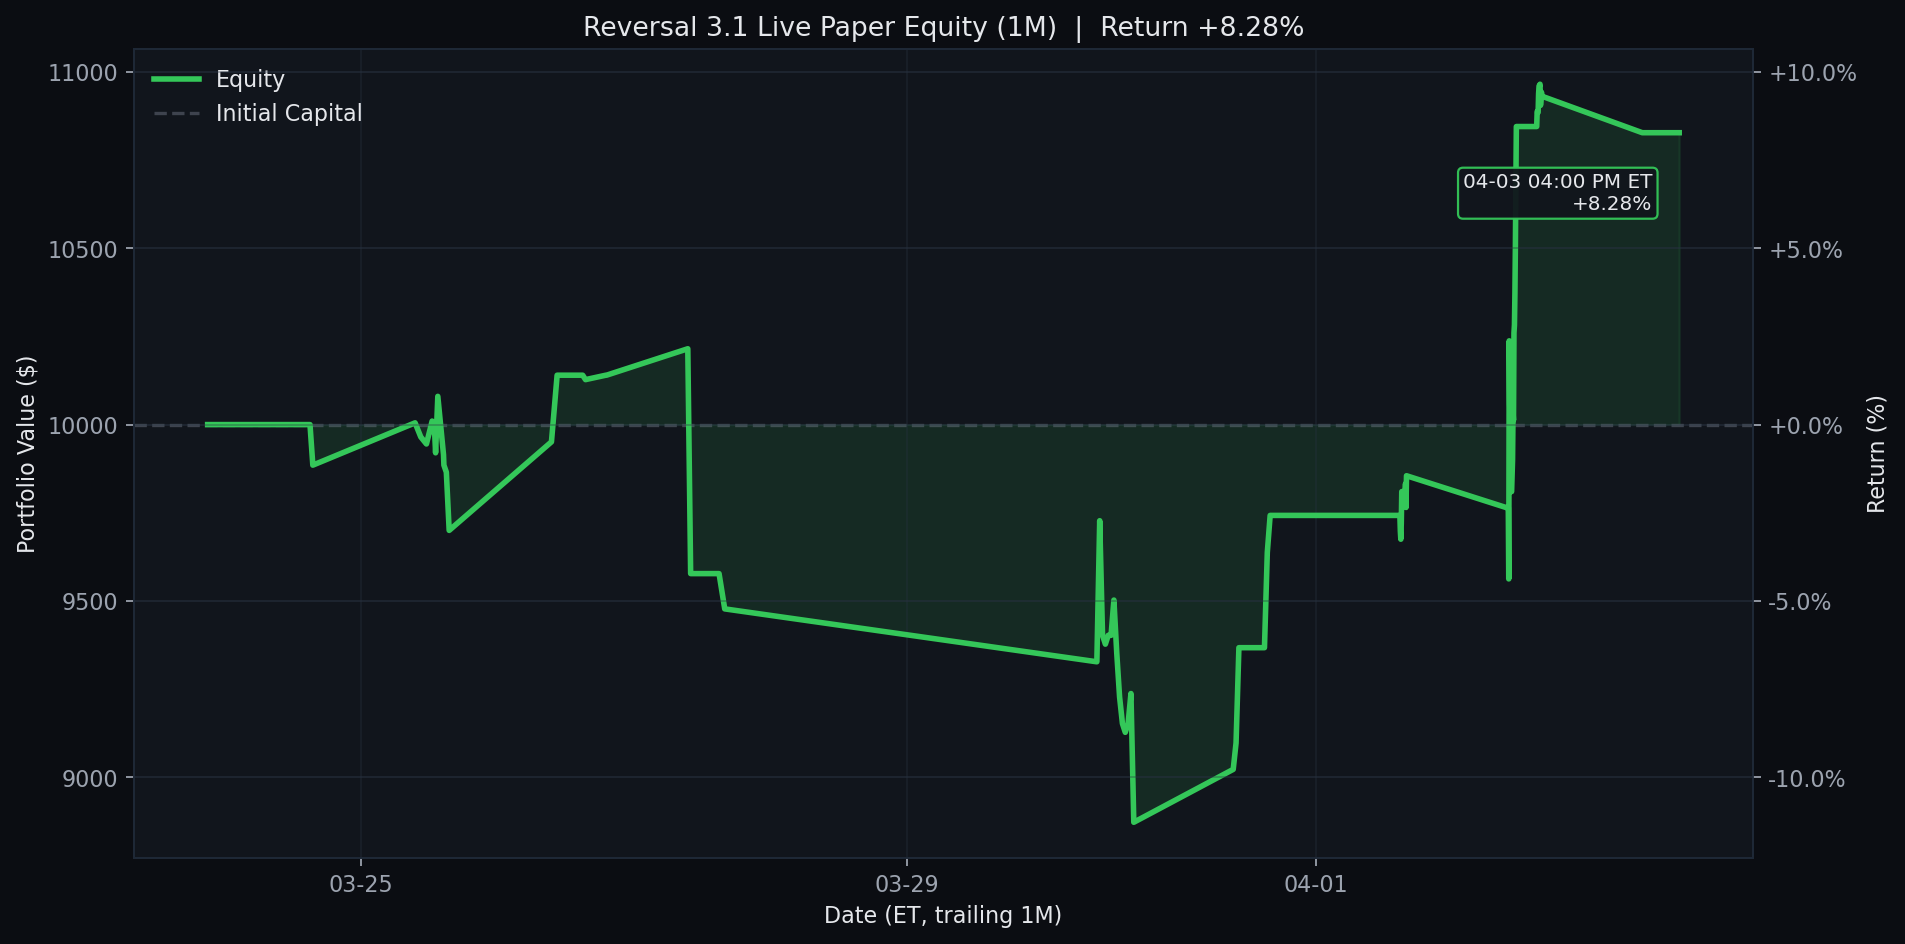
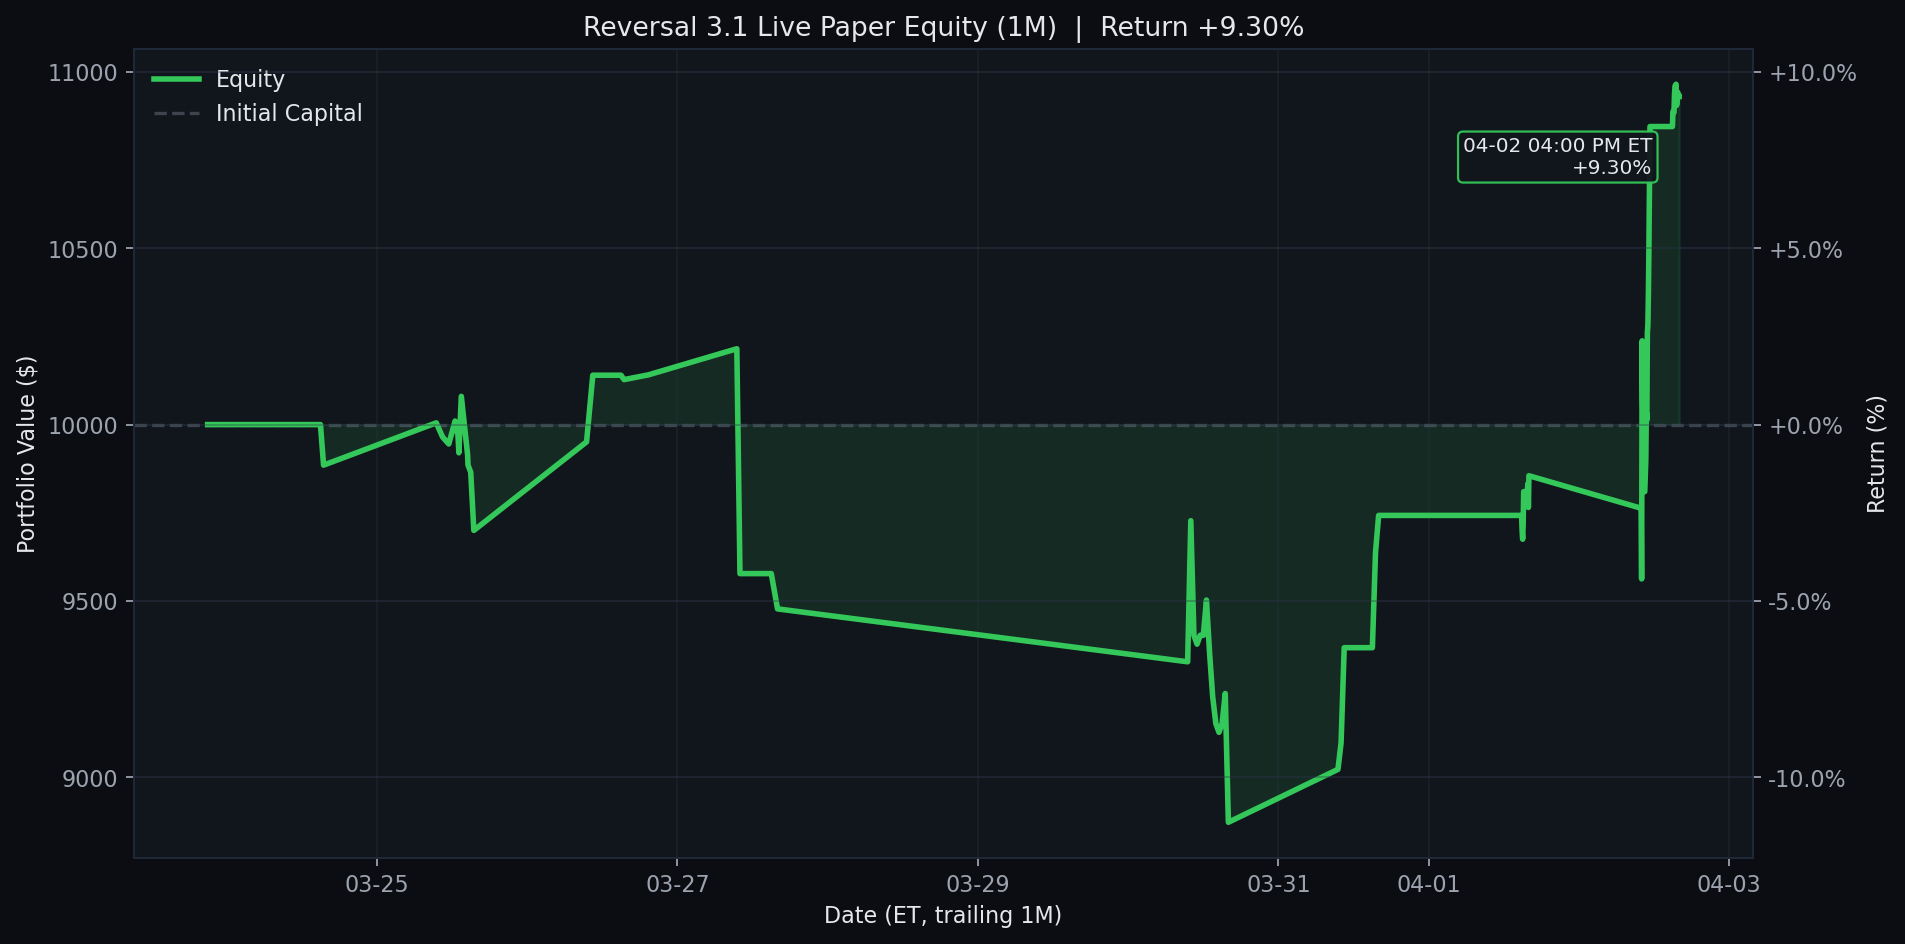
Fix market holiday handling for live paper runner

diff --git a/reversal_3_1_live.py b/reversal_3_1_live.py
@@ -6,6 +6,7 @@ import math
 import os
 import subprocess
 import sys
+from datetime import date, timedelta
 from dataclasses import asdict, dataclass
 from pathlib import Path
 from typing import Any
@@ -82,6 +83,114 @@ SLOT_TO_ET = {
     "manage_1530": (15, 30),
     "manage_1600": (16, 0),
 }
+
+
+def _observed_fixed_holiday(year: int, month: int, day: int) -> date:
+    holiday = date(year, month, day)
+    if holiday.weekday() == 5:
+        return holiday - timedelta(days=1)
+    if holiday.weekday() == 6:
+        return holiday + timedelta(days=1)
+    return holiday
+
+
+def _nth_weekday_of_month(year: int, month: int, weekday: int, n: int) -> date:
+    current = date(year, month, 1)
+    delta_days = (weekday - current.weekday()) % 7
+    return current + timedelta(days=delta_days + (n - 1) * 7)
+
+
+def _last_weekday_of_month(year: int, month: int, weekday: int) -> date:
+    if month == 12:
+        current = date(year + 1, 1, 1) - timedelta(days=1)
+    else:
+        current = date(year, month + 1, 1) - timedelta(days=1)
+    while current.weekday() != weekday:
+        current -= timedelta(days=1)
+    return current
+
+
+def _western_easter(year: int) -> date:
+    a = year % 19
+    b = year // 100
+    c = year % 100
+    d = b // 4
+    e = b % 4
+    f = (b + 8) // 25
+    g = (b - f + 1) // 3
+    h = (19 * a + b - d - g + 15) % 30
+    i = c // 4
+    k = c % 4
+    l = (32 + 2 * e + 2 * i - h - k) % 7
+    m = (a + 11 * h + 22 * l) // 451
+    month = (h + l - 7 * m + 114) // 31
+    day = ((h + l - 7 * m + 114) % 31) + 1
+    return date(year, month, day)
+
+
+def nyse_full_day_holidays(year: int) -> dict[date, str]:
+    holidays: dict[date, str] = {
+        _observed_fixed_holiday(year, 1, 1): "New Year's Day",
+        _nth_weekday_of_month(year, 1, 0, 3): "Martin Luther King Jr. Day",
+        _nth_weekday_of_month(year, 2, 0, 3): "Presidents Day",
+        _western_easter(year) - timedelta(days=2): "Good Friday",
+        _last_weekday_of_month(year, 5, 0): "Memorial Day",
+        _observed_fixed_holiday(year, 7, 4): "Independence Day",
+        _nth_weekday_of_month(year, 9, 0, 1): "Labor Day",
+        _nth_weekday_of_month(year, 11, 3, 4): "Thanksgiving Day",
+        _observed_fixed_holiday(year, 12, 25): "Christmas Day",
+    }
+    if year >= 2022:
+        holidays[_observed_fixed_holiday(year, 6, 19)] = "Juneteenth National Independence Day"
+    next_new_year_obs = _observed_fixed_holiday(year + 1, 1, 1)
+    if next_new_year_obs.year == year:
+        holidays[next_new_year_obs] = "New Year's Day (observed)"
+    return holidays
+
+
+def _to_calendar_date(value: pd.Timestamp | str | date) -> date:
+    if isinstance(value, date) and not isinstance(value, pd.Timestamp):
+        return value
+    ts = pd.Timestamp(value)
+    if ts.tzinfo is not None:
+        ts = ts.tz_convert(ET)
+    return ts.date()
+
+
+def market_closure_reason(value: pd.Timestamp | str | date) -> dict[str, Any] | None:
+    current_date = _to_calendar_date(value)
+    if current_date.weekday() >= 5:
+        return {"reason": "weekend", "holiday_name": None}
+    holiday_name = nyse_full_day_holidays(current_date.year).get(current_date)
+    if holiday_name:
+        return {"reason": "nyse_holiday", "holiday_name": holiday_name}
+    return None
+
+
+def is_nyse_session_day(value: pd.Timestamp | str | date) -> bool:
+    return market_closure_reason(value) is None
+
+
+def previous_nyse_session_day(value: pd.Timestamp | str | date) -> pd.Timestamp:
+    current_date = _to_calendar_date(value)
+    candidate = current_date - timedelta(days=1)
+    while not is_nyse_session_day(candidate):
+        candidate -= timedelta(days=1)
+    return pd.Timestamp(candidate)
+
+
+def count_nyse_session_days(start_exclusive: pd.Timestamp | str | date, end_inclusive: pd.Timestamp | str | date) -> int:
+    start_date = _to_calendar_date(start_exclusive)
+    end_date = _to_calendar_date(end_inclusive)
+    if end_date <= start_date:
+        return 0
+    sessions = 0
+    current = start_date + timedelta(days=1)
+    while current <= end_date:
+        if is_nyse_session_day(current):
+            sessions += 1
+        current += timedelta(days=1)
+    return sessions
 
 
 @dataclass
@@ -199,8 +308,7 @@ def build_universe() -> list[str]:
 
 
 def latest_required_history_date(now_et: pd.Timestamp) -> pd.Timestamp:
-    current = now_et.normalize().tz_localize(None)
-    return (current - pd.offsets.BDay(1)).normalize()
+    return previous_nyse_session_day(now_et)
 
 
 def csv_history_is_stale(tickers: list[str], now_et: pd.Timestamp) -> bool:
@@ -384,11 +492,11 @@ def get_live_snapshot(ticker: str, allow_extended_hours: bool = True) -> dict[st
 
 
 def trading_days_to_expiry(expiry_str: str) -> int:
-    today = pd.Timestamp.today().normalize()
+    today = pd.Timestamp.today(tz=ET).normalize()
     expiry_ts = pd.Timestamp(expiry_str).normalize()
-    if expiry_ts <= today:
+    if expiry_ts.date() <= today.date():
         return 0
-    return len(pd.bdate_range(today + pd.Timedelta(days=1), expiry_ts))
+    return count_nyse_session_days(today, expiry_ts)
 
 
 def choose_option_mark(calls: pd.DataFrame) -> pd.Series:
@@ -621,11 +729,7 @@ def screen_live_candidates(tickers: list[str]) -> tuple[pd.DataFrame, dict[str, 
 
 
 def business_days_since(entry_trade_date: str, current_trade_date: str) -> int:
-    entry = pd.Timestamp(entry_trade_date).normalize()
-    current = pd.Timestamp(current_trade_date).normalize()
-    if current <= entry:
-        return 0
-    return len(pd.bdate_range(entry + pd.Timedelta(days=1), current))
+    return count_nyse_session_days(entry_trade_date, current_trade_date)
 
 
 def append_event(events_df: pd.DataFrame, now_et: pd.Timestamp, trade_date: str, slot: str, event_type: str, detail: dict[str, Any]) -> pd.DataFrame:
@@ -1244,6 +1348,7 @@ def run_cycle(args: argparse.Namespace) -> dict[str, Any]:
     ensure_dirs()
     now_et = now_et_from_arg(args.now)
     slot_key = slot_key_for_timestamp(now_et, args.force_slot)
+    closure_detail = market_closure_reason(now_et)
     state = load_state(args.start_date)
     trades_df = load_csv_log(TRADES_PATH)
     events_df = load_csv_log(EVENTS_PATH)
@@ -1253,10 +1358,10 @@ def run_cycle(args: argparse.Namespace) -> dict[str, Any]:
     trade_date = now_et.date().isoformat()
     pre_start = pd.Timestamp(trade_date) < pd.Timestamp(state["start_date"])
 
-    if not pre_start and REFRESH_DATA_IF_STALE and not args.skip_data_refresh:
+    if not pre_start and closure_detail is None and REFRESH_DATA_IF_STALE and not args.skip_data_refresh:
         events_df = maybe_refresh_daily_data(universe, now_et, events_df)
 
-    if pre_start:
+    if pre_start or closure_detail is not None:
         summary_df = pd.DataFrame()
     else:
         summary_df, _ = screen_live_candidates(universe)
@@ -1272,7 +1377,36 @@ def run_cycle(args: argparse.Namespace) -> dict[str, Any]:
         )
     else:
         processed_for_day = state["processed_slots"].setdefault(trade_date, [])
-        if slot_key and slot_key not in processed_for_day:
+        if closure_detail is not None:
+            if slot_key and slot_key not in processed_for_day:
+                events_df = append_event(
+                    events_df,
+                    now_et=now_et,
+                    trade_date=trade_date,
+                    slot=slot_key,
+                    event_type="market_closed",
+                    detail=closure_detail,
+                )
+                processed_for_day.append(slot_key)
+            elif slot_key:
+                events_df = append_event(
+                    events_df,
+                    now_et=now_et,
+                    trade_date=trade_date,
+                    slot=slot_key,
+                    event_type="slot_skipped",
+                    detail={"reason": "already_processed"},
+                )
+            else:
+                events_df = append_event(
+                    events_df,
+                    now_et=now_et,
+                    trade_date=trade_date,
+                    slot="manual",
+                    event_type="market_closed",
+                    detail=closure_detail,
+                )
+        elif slot_key and slot_key not in processed_for_day:
             if slot_key.startswith("manage_"):
                 state, trades_df, events_df = maybe_exit_positions(state, now_et, slot_key, trades_df, events_df)
             if slot_key == "entry_1500":

diff --git a/results/reversal_3_1_live/README.md b/results/reversal_3_1_live/README.md
@@ -1,6 +1,6 @@
 # Reversal 3.1 Live Paper Test
 
-Last updated (ET): `2026-04-03 16:00:01 EDT`
+Last updated (ET): `2026-04-03 16:00:00 EDT`
 Last processed slot: `manage_1600`
 
 ## Active Configuration
@@ -19,18 +19,17 @@ Last processed slot: `manage_1600`
 
 ## Portfolio Snapshot
 
-- Cash: `$2,892.50`
+- Cash: `$8,102.50`
 - Equity: `$10,827.50`
 - Realized PnL: `$845.00`
 - Unrealized PnL: `$-17.50`
-- Open positions: `2`
+- Open positions: `1`
 
 ## Open Positions
 
 ```text
-ticker     contract_symbol entry_trade_date  business_days_held  entry_option_price  current_option_price  entry_spot  current_spot  unrealized_pnl  unrealized_return_pct  success_rate  matched_signals  current_drop_pct  entry_iv_pct  current_iv_pct  rolling_sigma_20d_pct
-  REGN REGN260515C00760000       2026-04-03                   0               52.10                 52.10      761.39        761.39             0.0                   0.00         93.33               15              2.04         51.67           51.67                  27.37
-   WDC  WDC260501C00295000       2026-04-02                   1               27.42                 27.25      294.77        294.20           -17.5                  -0.64         97.22               36              0.99         81.84           82.37                  91.06
+ticker    contract_symbol entry_trade_date  business_days_held  entry_option_price  current_option_price  entry_spot  current_spot  unrealized_pnl  unrealized_return_pct  success_rate  matched_signals  current_drop_pct  entry_iv_pct  current_iv_pct  rolling_sigma_20d_pct
+   WDC WDC260501C00295000       2026-04-02                   0               27.42                 27.25      294.77         294.2           -17.5                  -0.64         97.22               36              0.99         81.84           82.37                  91.06
 ```
 
 ## Today's Closed Trades (2026-04-03)
@@ -39,36 +38,22 @@ _None_
 
 ## Current Screener Snapshot
 
-```text
-ticker  success_rate_%  matched_signals  current_drop_%  target_rebound_$  target_price  rolling_sigma_20d_%  call_candidate
-   WDC           97.22               36            1.19              2.47        296.67                88.18            True
-  REGN           93.33               15            2.04             11.10        772.49                27.37            True
-  ASML           92.86               14            2.81             26.78       1348.28                51.28            True
-  CDNS           90.91               44            0.64              1.25        279.66                25.28            True
-  ORLY           88.24               34            0.74              0.48         91.90                22.90            True
-   CSX           88.00               25            0.63              0.18         41.36                27.22            True
-  KLAC           86.11               36            0.87              9.27       1515.87                55.10            True
-  FAST           85.71               21            1.44              0.47         46.43                21.85            True
-   KDP           85.71               14            0.97              0.17         25.62                19.41            True
- GOOGL           84.62               39            0.51              1.07        296.93                34.65            True
-  AMAT           84.38               32            1.38              3.41        352.34                57.49            True
-    MU           83.78               37            0.86              2.22        366.90                81.26            True
-```
+_None_
 
 ## Recent Events
 
 ```text
-                    timestamp_et        slot   event_type                          detail
-2026-04-03T16:00:01.913141-04:00 manage_1600 slot_skipped {"reason": "already_processed"}
-2026-04-03T15:55:05.942538-04:00 manage_1600 slot_skipped {"reason": "already_processed"}
-2026-04-03T15:40:03.898307-04:00 manage_1530 slot_skipped {"reason": "already_processed"}
-2026-04-03T15:35:05.900404-04:00 manage_1530 slot_skipped {"reason": "already_processed"}
-2026-04-03T15:30:05.889192-04:00 manage_1530 slot_skipped {"reason": "already_processed"}
-2026-04-03T15:25:05.896513-04:00 manage_1530 slot_skipped {"reason": "already_processed"}
-2026-04-03T15:10:05.893314-04:00  entry_1500 slot_skipped {"reason": "already_processed"}
-2026-04-03T15:05:00.923964-04:00  entry_1500 slot_skipped {"reason": "already_processed"}
-2026-04-03T15:00:05.960286-04:00  entry_1500 slot_skipped {"reason": "already_processed"}
-2026-04-03T14:55:05.881986-04:00  entry_1500 slot_skipped {"reason": "already_processed"}
+                    timestamp_et        slot    event_type                                                    detail
+       2026-04-03T16:00:00-04:00 manage_1600 market_closed {"holiday_name": "Good Friday", "reason": "nyse_holiday"}
+2026-04-02T16:00:05.925792-04:00 manage_1600  slot_skipped                           {"reason": "already_processed"}
+2026-04-02T15:55:05.893858-04:00 manage_1600  slot_skipped                           {"reason": "already_processed"}
+2026-04-02T15:40:05.898407-04:00 manage_1530  slot_skipped                           {"reason": "already_processed"}
+2026-04-02T15:35:05.886679-04:00 manage_1530  slot_skipped                           {"reason": "already_processed"}
+2026-04-02T15:30:05.889337-04:00 manage_1530  slot_skipped                           {"reason": "already_processed"}
+2026-04-02T15:25:05.929228-04:00 manage_1530  slot_skipped                           {"reason": "already_processed"}
+2026-04-02T15:10:05.887758-04:00  entry_1500  slot_skipped                           {"reason": "already_processed"}
+2026-04-02T15:05:00.892731-04:00  entry_1500  slot_skipped                           {"reason": "already_processed"}
+2026-04-02T15:00:05.892985-04:00  entry_1500  slot_skipped                           {"reason": "already_processed"}
 ```
 
 ## Equity Curves

diff --git a/README.md b/README.md
@@ -3,8 +3,8 @@
 <!-- reversal-3.1-live:start -->
 ## Reversal 3.1 Live Paper Test
 
-- Last updated (ET): `2026-04-03 16:00:01 EDT`
-- Equity: `$10,827.50` | Realized: `$845.00` | Unrealized: `$-17.50` | Open positions: `2`
+- Last updated (ET): `2026-04-03 16:00:00 EDT`
+- Equity: `$10,827.50` | Realized: `$845.00` | Unrealized: `$-17.50` | Open positions: `1`
 - Today closed trades: `0`
 - Current slot: `manage_1600`
 - Universe: `qqq_plus_leverage_etfs`
@@ -13,9 +13,8 @@
 ### Current Open Positions
 
 ```text
-ticker     contract_symbol  current_option_price  unrealized_pnl  unrealized_return_pct  business_days_held
-  REGN REGN260515C00760000                 52.10             0.0                   0.00                   0
-   WDC  WDC260501C00295000                 27.25           -17.5                  -0.64                   1
+ticker    contract_symbol  current_option_price  unrealized_pnl  unrealized_return_pct  business_days_held
+   WDC WDC260501C00295000                 27.25           -17.5                  -0.64                   0
 ```
 
 <details>
